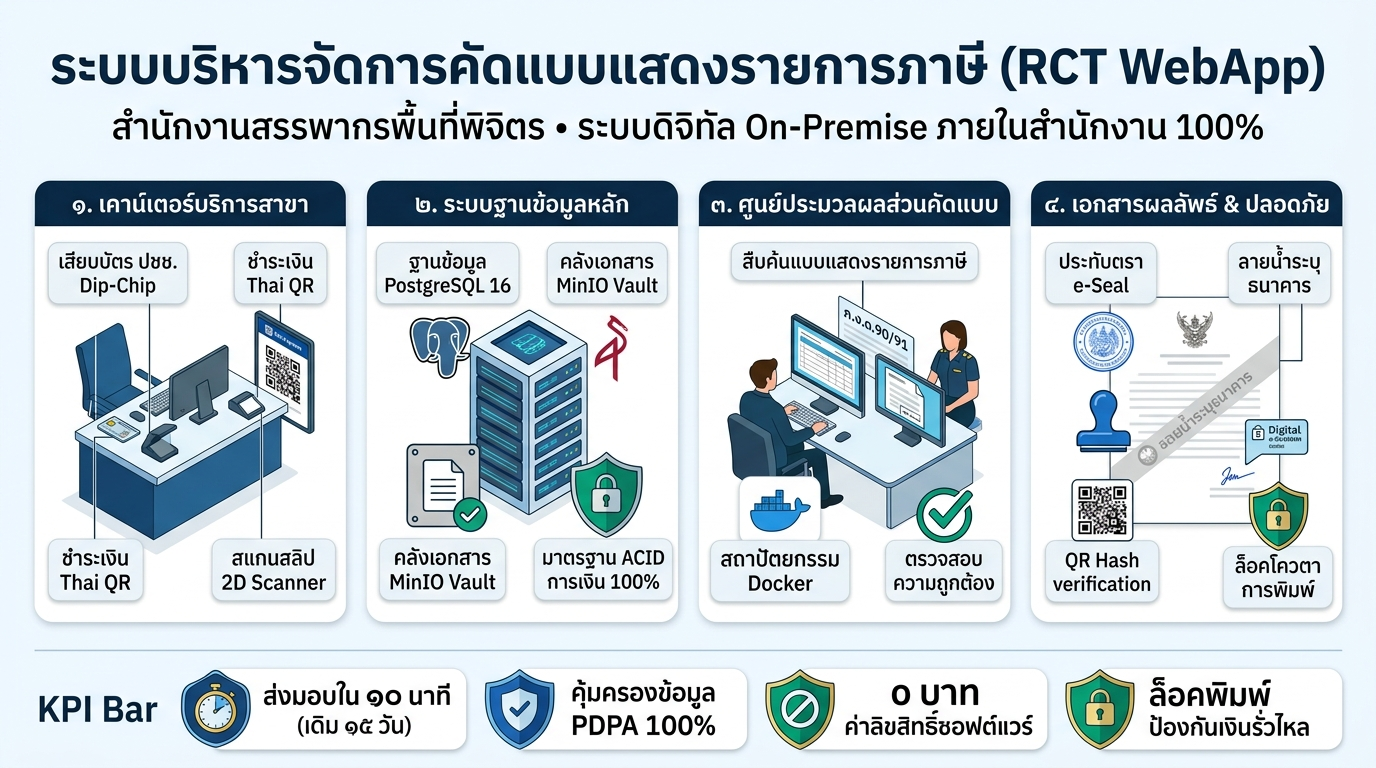
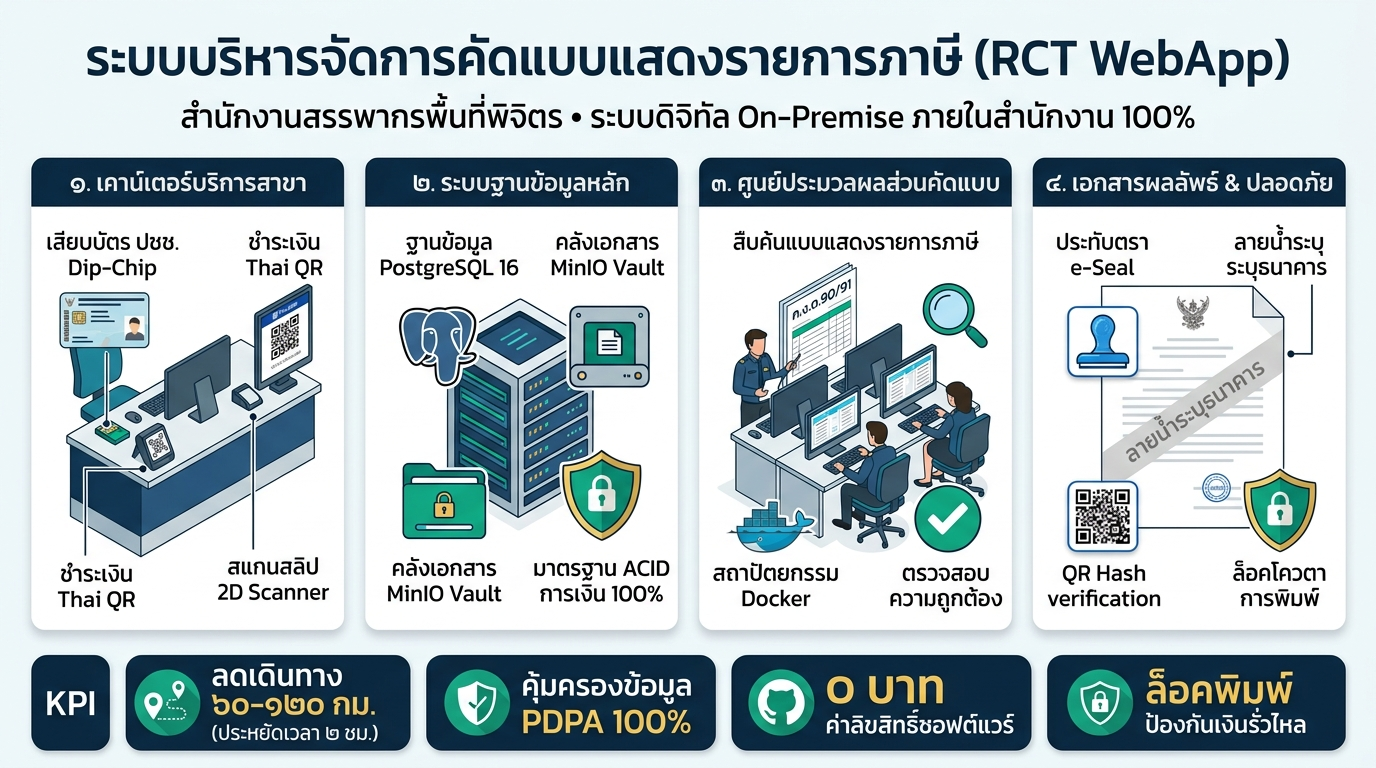
feat: update infographic KPI to travel distance and time reduction (60-120 km / 2 hrs)

diff --git a/src/components/SystemArchitectureView.tsx b/src/components/SystemArchitectureView.tsx
@@ -348,12 +348,12 @@ export default function SystemArchitectureView({ onGoToDemo, onGoToLanding }: Sy
             {/* Bottom 4 KPI Badges */}
             <div className="grid grid-cols-2 lg:grid-cols-4 gap-3.5 pt-2">
               <div className="bg-slate-900 text-white p-3.5 rounded-xl border border-slate-700 flex items-center gap-3">
-                <div className="w-10 h-10 rounded-lg bg-rose-500/20 text-rose-400 flex items-center justify-center font-black text-xs flex-shrink-0">
+                <div className="w-10 h-10 rounded-lg bg-emerald-500/20 text-emerald-400 flex items-center justify-center font-black text-xs flex-shrink-0">
                   KPI 1
                 </div>
                 <div>
-                  <p className="font-black text-sm text-white">ส่งมอบใน ๑๐ นาที</p>
-                  <p className="text-[11px] text-slate-400">จากเดิมต้องรอคอย ๑๕ วัน</p>
+                  <p className="font-black text-sm text-white">ลดเดินทาง ๖๐-๑๒๐ กม.</p>
+                  <p className="text-[11px] text-slate-400">ประหยัดเวลา ๒ ชม. ยื่นสาขาใกล้บ้าน</p>
                 </div>
               </div>
 
